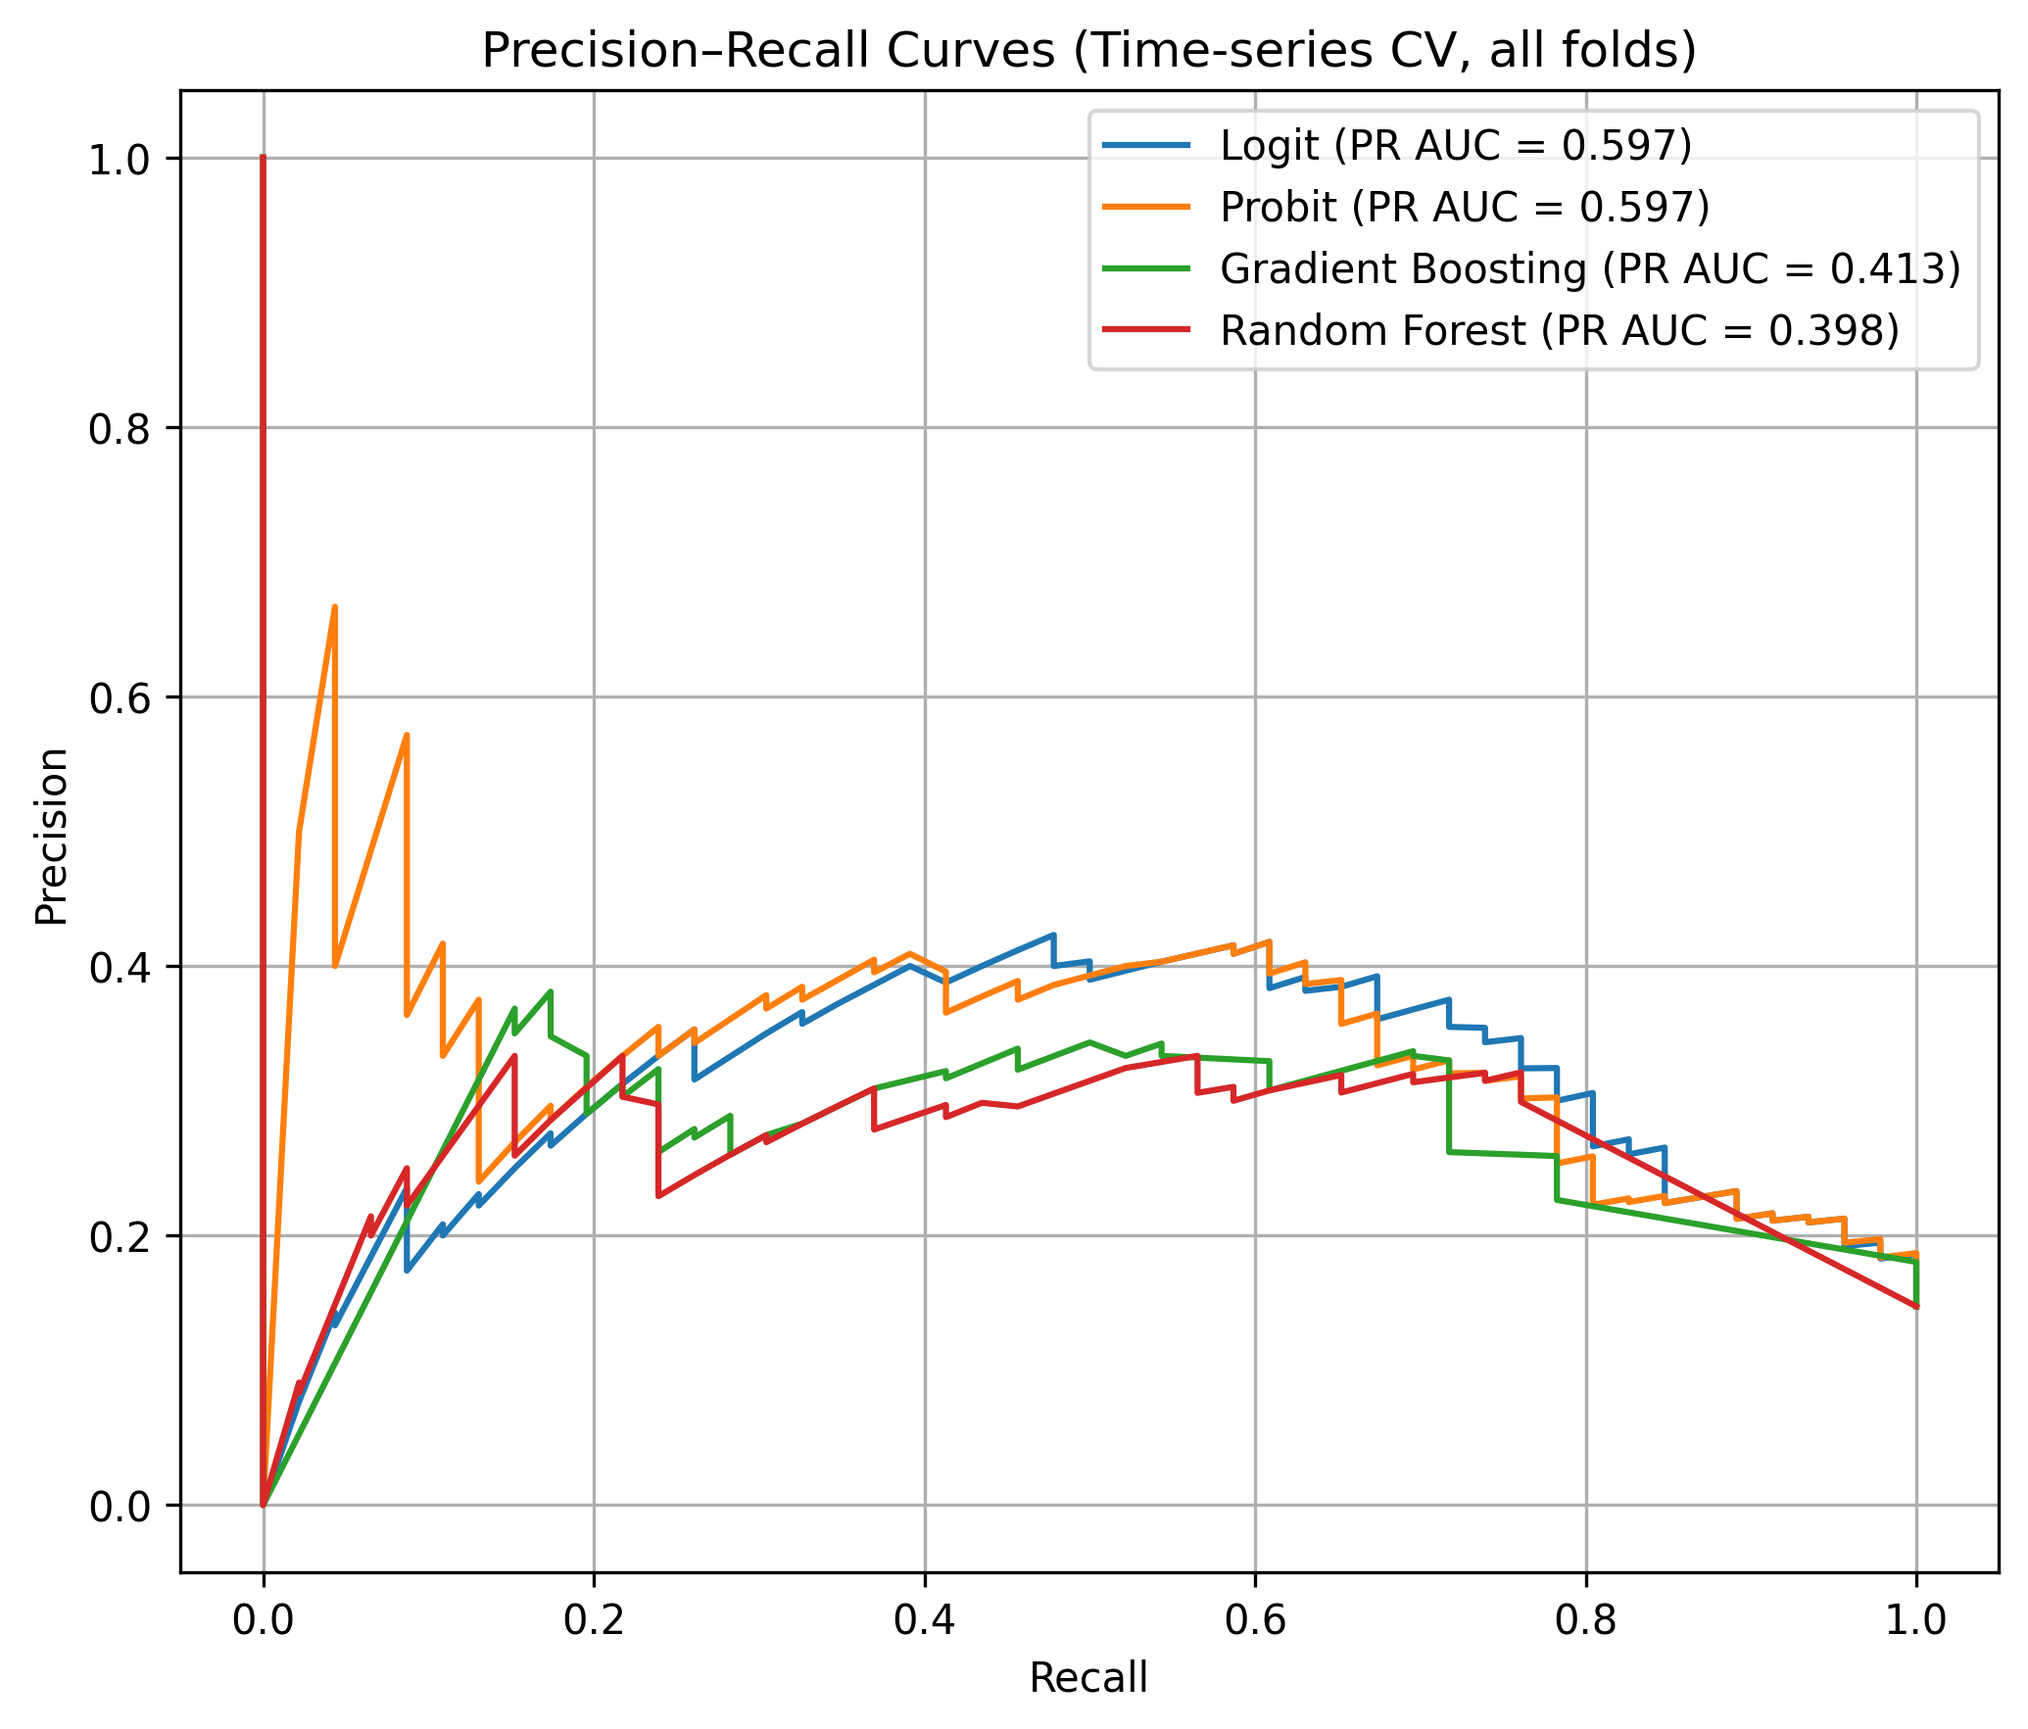
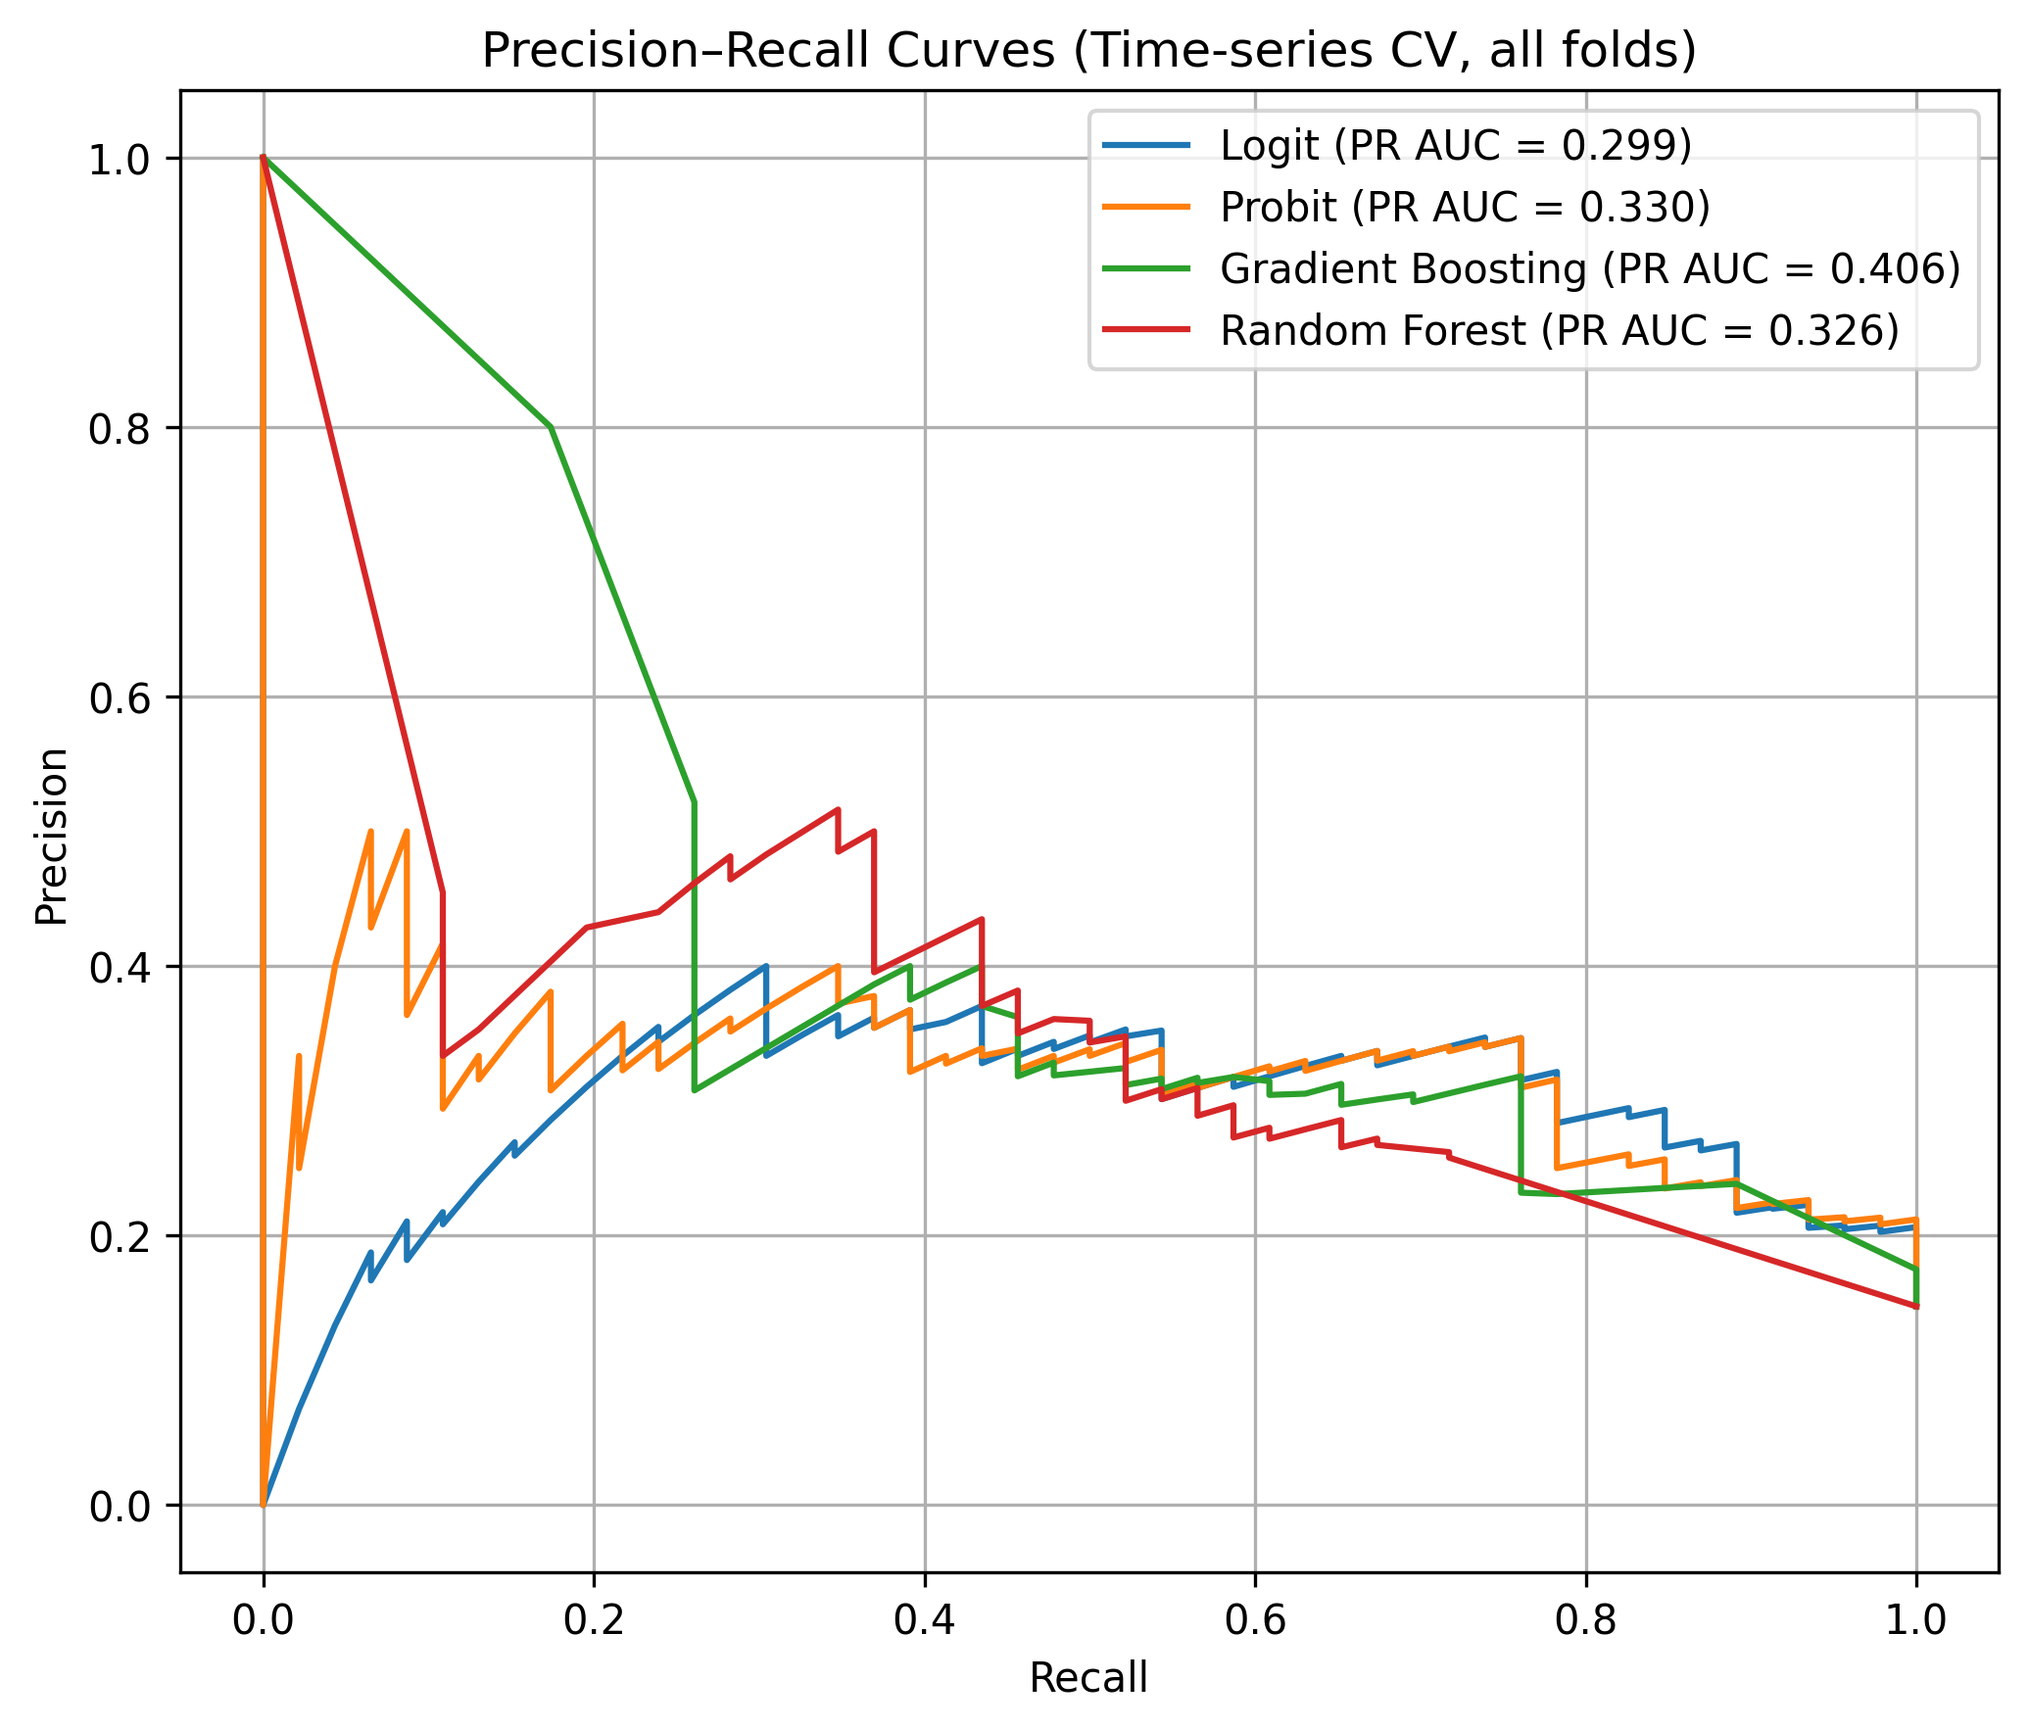
Changing PR AUC plots and displaying testing data

diff --git a/models.py b/models.py
@@ -19,11 +19,14 @@ print(df)
 
 data1 = df[['R_12-18M', 'T10Y2Y', 'T10Y3M', 'BaaSpread', 'PERatioS&P']].dropna()
 y = data1['R_12-18M']
-X = data1[['T10Y3M']].copy()
+X = data1[['T10Y3M']].copy()   # main slope spec here
 
 feature_cols = X.columns.tolist()
 X["Inverted"] = (X.iloc[:, 0] < 0).astype(int)
 threshold = 0.5
+
+n_samples = len(X)
+dates = pd.date_range(start='1980-11-01', periods=n_samples, freq='MS')
 
 ## ================================================== Cross Validation Functions ================================================== ##
 
@@ -48,14 +51,14 @@ def display_fold_info(X, splits):
     print(f"Cross-validation Fold Structure")
     print(f"Total data points: {len(X)}")
     if hasattr(X, 'index') and hasattr(X.index, 'strftime'):
-        dates = X.index
+        dates_local = X.index
     else:
-        dates = pd.date_range(start='1980-11-01', periods=len(X), freq='MS')
+        dates_local = pd.date_range(start='1980-11-01', periods=len(X), freq='MS')
     for i, (train_idx, test_idx) in enumerate(splits, 1):
-        train_start = dates[0]
-        train_end = dates[train_idx[-1]]
-        test_start = dates[test_idx[0]]
-        test_end = dates[test_idx[-1]]
+        train_start = dates_local[0]
+        train_end = dates_local[train_idx[-1]]
+        test_start = dates_local[test_idx[0]]
+        test_end = dates_local[test_idx[-1]]
         print(f"\nFOLD {i}:")
         print(f"  Training:  {train_start.strftime('%Y-%m')} to {train_end.strftime('%Y-%m')} ({len(train_idx):3d} months)")
         print(f"  Testing:   {test_start.strftime('%Y-%m')} to {test_end.strftime('%Y-%m')} ({len(test_idx):3d} months)")
@@ -83,12 +86,30 @@ def run_mcnemar(name, preds_A, preds_B, y_true):
     print(f"\nMcNemar test ({name}):")
     print(f"b = {b}, c = {c}, p-value = {result.pvalue:.4f}")
 
+## ================================================== GLOBAL STORAGE FOR PER-OBSERVATION PREDICTIONS ================================================== ##
+
+# fold identity for each observation (NaN for training-only)
+fold_id_global = np.full(n_samples, np.nan)
+
+# For each model, store predictions / probabilities for every observation
+logit_pred_global  = np.full(n_samples, np.nan)
+logit_proba_global = np.full(n_samples, np.nan)
+
+probit_pred_global  = np.full(n_samples, np.nan)
+probit_proba_global = np.full(n_samples, np.nan)
+
+gb_pred_global  = np.full(n_samples, np.nan)
+gb_proba_global = np.full(n_samples, np.nan)
+
+rf_pred_global  = np.full(n_samples, np.nan)
+rf_proba_global = np.full(n_samples, np.nan)
+
 all_y_logit, all_proba_logit = [], []
 all_y_probit, all_proba_probit = [], []
 all_y_gb, all_proba_gb = [], []
 all_y_rf, all_proba_rf = [], []
 
-## ================================================== Main Results ================================================== ##
+## ================================================== Main Results: LOGIT ================================================== ##
 
 clf = LogisticRegression(solver="liblinear", random_state=42)
 
@@ -101,7 +122,7 @@ logit_preds_aug2 = []
 logit_preds_slope3 = []
 logit_preds_aug3 = []
 
-for train_idx, test_idx in expanding_splits:
+for fold_id, (train_idx, test_idx) in enumerate(expanding_splits, start=1):
     X_tr, X_te = X.iloc[train_idx], X.iloc[test_idx]
     y_tr, y_te = y.iloc[train_idx], y.iloc[test_idx]
 
@@ -109,11 +130,17 @@ for train_idx, test_idx in expanding_splits:
         continue
 
     logit_y_all.extend(y_te.values)
+    fold_id_global[test_idx] = fold_id
 
+    # main spec: T10Y3M
     clf.fit(X_tr[feature_cols], y_tr)
     proba = clf.predict_proba(X_te[feature_cols])[:, 1]
     preds = (proba >= threshold).astype(int)
     logit_preds_aug3.extend(preds)
+
+    # store per-observation predictions globally
+    logit_pred_global[test_idx]  = preds
+    logit_proba_global[test_idx] = proba
 
     all_y_logit.append(y_te.values)
     all_proba_logit.append(proba)
@@ -132,6 +159,7 @@ for train_idx, test_idx in expanding_splits:
         aucs_inv.append(roc_auc_score(y_te[inv_mask], proba[inv_mask]))
         pr_aucs_inv.append(average_precision_score(y_te[inv_mask], proba[inv_mask]))
 
+    # extra specs for McNemar (no need to store per-obs here)
     X_tr_slope3 = data1.iloc[train_idx][['T10Y3M']]
     X_te_slope3 = data1.iloc[test_idx][['T10Y3M']]
     clf.fit(X_tr_slope3, y_tr)
@@ -166,6 +194,8 @@ print("PR AUC:    {:.3f} ± {:.3f}".format(np.mean(pr_aucs_inv), np.std(pr_aucs_
 run_mcnemar("Logit T10Y2Y slope vs augmented", logit_preds_slope2, logit_preds_aug2, logit_y_all)
 run_mcnemar("Logit T10Y3M slope vs augmented", logit_preds_slope3, logit_preds_aug3, logit_y_all)
 
+## ================================================== PROBIT ================================================== ##
+
 probit_f1s, probit_precs, probit_recs, probit_aucs, probit_pr_aucs = [], [], [], [], []
 probit_f1s_inv, probit_precs_inv, probit_recs_inv, probit_aucs_inv, probit_pr_aucs_inv = [], [], [], [], []
 
@@ -193,6 +223,10 @@ for train_idx, test_idx in expanding_splits:
     probit_proba = probit_result.predict(X_te_const)
     probit_preds = (probit_proba >= threshold).astype(int)
     probit_preds_aug3.extend(probit_preds)
+
+    # store per-observation predictions
+    probit_pred_global[test_idx]  = probit_preds
+    probit_proba_global[test_idx] = probit_proba
 
     all_y_probit.append(y_te.values)
     all_proba_probit.append(probit_proba)
@@ -254,6 +288,8 @@ print("PR AUC:    {:.3f} ± {:.3f}".format(np.mean(probit_pr_aucs_inv), np.std(p
 run_mcnemar("Probit T10Y2Y slope vs augmented", probit_preds_slope2, probit_preds_aug2, probit_y_all)
 run_mcnemar("Probit T10Y3M slope vs augmented", probit_preds_slope3, probit_preds_aug3, probit_y_all)
 
+## ================================================== GRADIENT BOOSTING ================================================== ##
+
 gb_f1s, gb_precs, gb_recs, gb_aucs, gb_pr_aucs = [], [], [], [], []
 gb_f1s_inv, gb_precs_inv, gb_recs_inv, gb_aucs_inv, gb_pr_aucs_inv = [], [], [], [], []
 
@@ -283,6 +319,9 @@ for train_idx, test_idx in expanding_splits:
     gb_proba = gb_clf.predict_proba(X_te[feature_cols])[:, 1]
     gb_preds = (gb_proba >= threshold).astype(int)
     gb_preds_aug3.extend(gb_preds)
+
+    gb_pred_global[test_idx]  = gb_preds
+    gb_proba_global[test_idx] = gb_proba
 
     all_y_gb.append(y_te.values)
     all_proba_gb.append(gb_proba)
@@ -335,6 +374,8 @@ print("PR AUC:    {:.3f} ± {:.3f}".format(np.mean(gb_pr_aucs_inv), np.std(gb_pr
 run_mcnemar("Gradient Boosting T10Y2Y slope vs augmented", gb_preds_slope2, gb_preds_aug2, gb_y_all)
 run_mcnemar("Gradient Boosting T10Y3M slope vs augmented", gb_preds_slope3, gb_preds_aug3, gb_y_all)
 
+## ================================================== RANDOM FOREST ================================================== ##
+
 rf_f1s, rf_precs, rf_recs, rf_aucs, rf_pr_aucs = [], [], [], [], []
 rf_f1s_inv, rf_precs_inv, rf_recs_inv, rf_aucs_inv, rf_pr_aucs_inv = [], [], [], [], []
 
@@ -365,6 +406,9 @@ for train_idx, test_idx in expanding_splits:
     rf_proba = rf_clf.predict_proba(X_te[feature_cols])[:, 1]
     rf_preds = (rf_proba >= threshold).astype(int)
     rf_preds_aug3.extend(rf_preds)
+
+    rf_pred_global[test_idx]  = rf_preds
+    rf_proba_global[test_idx] = rf_proba
 
     all_y_rf.append(y_te.values)
     all_proba_rf.append(rf_proba)
@@ -417,56 +461,37 @@ print("PR AUC:    {:.3f} ± {:.3f}".format(np.mean(rf_pr_aucs_inv), np.std(rf_pr
 run_mcnemar("Random Forest T10Y2Y slope vs augmented", rf_preds_slope2, rf_preds_aug2, rf_y_all)
 run_mcnemar("Random Forest T10Y3M slope vs augmented", rf_preds_slope3, rf_preds_aug3, rf_y_all)
 
-def plot_per_model_pr_curves(all_y, all_proba, model_name, filename_prefix):
+## ============================ PR–AUC Curves: mean over folds ============================ ##
+plt.figure(figsize=(7, 6))
+
+def plot_mean_pr_curve(all_y, all_proba, fold_pr_aucs, label, n_points=200):
     if len(all_y) == 0:
         return
-    plt.figure(figsize=(7, 6))
-    for fold_idx, (y_fold, proba_fold) in enumerate(zip(all_y, all_proba), start=1):
-        prec_curve, rec_curve, _ = precision_recall_curve(y_fold, proba_fold)
-        ap = average_precision_score(y_fold, proba_fold)
-        plt.plot(rec_curve, prec_curve, label=f"Fold {fold_idx} (PR AUC = {ap:.3f})")
-    plt.xlabel("Recall")
-    plt.ylabel("Precision")
-    plt.title(f"Precision–Recall Curves – {model_name}")
-    plt.legend()
-    plt.grid(True)
-    plt.tight_layout()
-    plt.savefig(f"{filename_prefix}_pr_curves.png", dpi=300, bbox_inches="tight")
-    plt.close()
+    recall_grid = np.linspace(0.0, 1.0, n_points)
+    precisions_interp = []
+    for y_fold, proba_fold in zip(all_y, all_proba):
+        prec, rec, _ = precision_recall_curve(y_fold, proba_fold)
+        rec_unique, idx = np.unique(rec, return_index=True)
+        prec_unique = prec[idx]
+        prec_on_grid = np.interp(recall_grid, rec_unique, prec_unique)
+        precisions_interp.append(prec_on_grid)
+    mean_precision = np.mean(precisions_interp, axis=0)
+    mean_ap = np.mean(fold_pr_aucs)
+    plt.plot(recall_grid, mean_precision, label=f"{label} (mean PR AUC = {mean_ap:.3f})")
 
-plot_per_model_pr_curves(all_y_logit,  all_proba_logit,  "Logistic Regression", "logit")
-plot_per_model_pr_curves(all_y_probit, all_proba_probit, "Probit",              "probit")
-plot_per_model_pr_curves(all_y_gb,     all_proba_gb,     "Gradient Boosting",   "gb")
-plot_per_model_pr_curves(all_y_rf,     all_proba_rf,     "Random Forest",       "rf")
+plot_mean_pr_curve(all_y_logit,  all_proba_logit,  pr_aucs,        "Logit")
+plot_mean_pr_curve(all_y_probit, all_proba_probit, probit_pr_aucs, "Probit")
+plot_mean_pr_curve(all_y_gb,     all_proba_gb,     gb_pr_aucs,     "Gradient Boosting")
+plot_mean_pr_curve(all_y_rf,     all_proba_rf,     rf_pr_aucs,     "Random Forest")
 
-#print("\n=== Statistical Analysis ===")
-#X_with_const = sm.add_constant(X[feature_cols], has_constant='add')
-
-#logit_model = sm.Logit(y, X_with_const)
-#logit_results = logit_model.fit(disp=0)
-
-#print("\nLogistic Regression (Logit) Coefficients:")
-#print(logit_results.summary2().tables[1][['Coef.', 'Std.Err.', 'z', 'P>|z|']])
-
-#probit_model_full = sm.Probit(y, X_with_const)
-#probit_results_full = probit_model_full.fit(disp=0)
-
-#print("\nProbit Regression Coefficients:")
-#print(probit_results_full.summary2().tables[1][['Coef.', 'Std.Err.', 'z', 'P>|z|']])
-
-#probit_margeff = probit_results_full.get_margeff(at='overall')
-#print("\nProbit Average Marginal Effects (AME):")
-#print(probit_margeff.summary())
-
-#vif_data = pd.DataFrame()
-#vif_data["feature"] = X_with_const.columns
-#vif_data["VIF"] = [
-#    variance_inflation_factor(X_with_const.values, i)
-#    for i in range(X_with_const.shape[1])
-#]
-
-#print("\n=== Variance Inflation Factors (VIF) ===")
-#print(vif_data[vif_data["feature"] != "const"])
+plt.xlabel("Recall")
+plt.ylabel("Precision")
+plt.title("Precision–Recall Curves (mean over expanding-window folds)")
+plt.legend()
+plt.grid(True)
+plt.tight_layout()
+plt.savefig("pr_curves_mean_over_folds.png", dpi=300, bbox_inches="tight")
+plt.close()
 
 ## ================================================== SPF Comparison ================================================== ##
 
@@ -480,17 +505,10 @@ model_avg_precision = np.mean(all_precisions)
 model_avg_precision_inv = np.mean(all_precisions_inv)
 
 print("\n======== Averages ========")
-#print(f"\nPrecision Comparison:")
-#print(f"SPF: {spf_precision:.3f}")
 print(f"Models (avg): {model_avg_precision:.3f}")
-#print(f"Difference: {model_avg_precision - spf_precision:+.3f}")
-
-#print(f"\nPrecision Comparison (Inverted Yield Curve):")
-#print(f"SPF: {spf_precision:.3f}")
 print(f"Models (avg) YC inverted: {model_avg_precision_inv:.3f}")
-#print(f"Difference: {model_avg_precision_inv - spf_precision:+.3f}")
 
-## ================================================== Per Fold Performance ================================================== ##
+## ================================================== Per Fold Performance (Precision & Recall) ================================================== ##
 
 print("\n======== Per-fold Precision & Recall (by model) ========")
 
@@ -512,3 +530,27 @@ _print_per_fold('Logistic Regression', precs, recs)
 _print_per_fold('Probit', probit_precs, probit_recs)
 _print_per_fold('Gradient Boosting', gb_precs, gb_recs)
 _print_per_fold('Random Forest', rf_precs, rf_recs)
+
+## ================================================== Build per-observation table for all models ================================================== ##
+
+mask_test = ~np.isnan(fold_id_global)   # True for test observations across all folds
+
+pred_df_all = pd.DataFrame({
+    "Fold": fold_id_global[mask_test].astype(int),
+    "Date": dates[mask_test].strftime("%Y-%m"),
+    "y_true": y.values[mask_test].astype(int),
+    "Logit_pred":  logit_pred_global[mask_test].astype(int),
+    "Logit_proba": logit_proba_global[mask_test],
+    "Probit_pred":  probit_pred_global[mask_test].astype(int),
+    "Probit_proba": probit_proba_global[mask_test],
+    "GB_pred":  gb_pred_global[mask_test].astype(int),
+    "GB_proba": gb_proba_global[mask_test],
+    "RF_pred":  rf_pred_global[mask_test].astype(int),
+    "RF_proba": rf_proba_global[mask_test],
+})
+
+print("\n=== All models: per-observation predictions in test folds ===")
+print(pred_df_all.head(20).to_string(index=False))
+print(f"\nTotal test observations in table: {len(pred_df_all)}")  # should be 312
+
+pred_df_all.to_excel("all_models_fold_predictions.xlsx", index=False)
